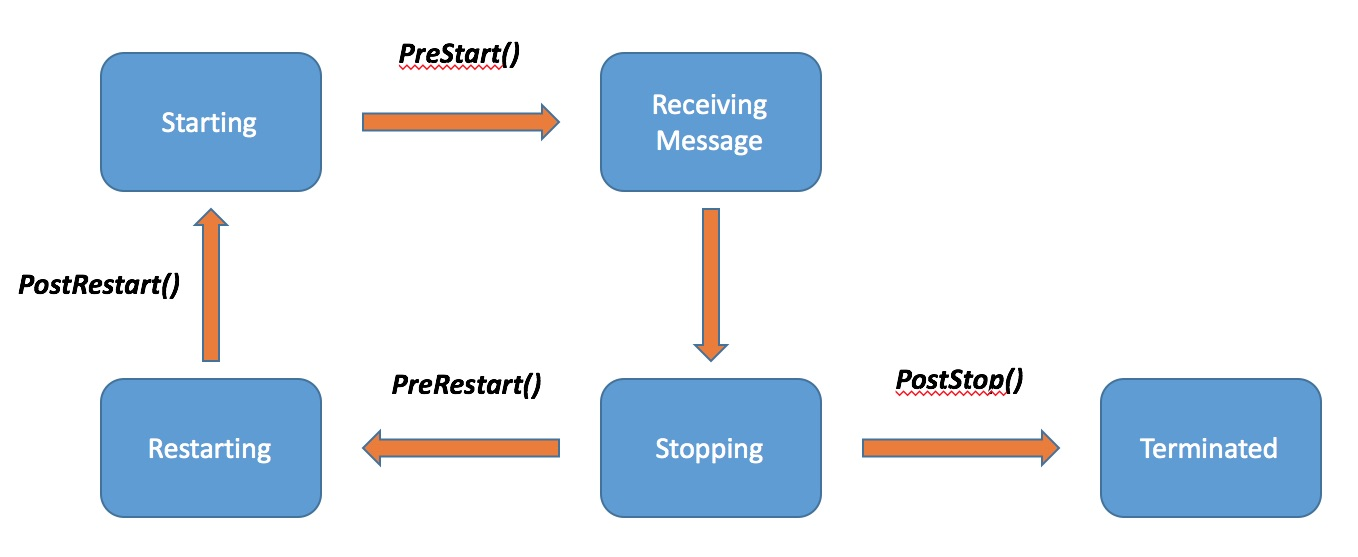
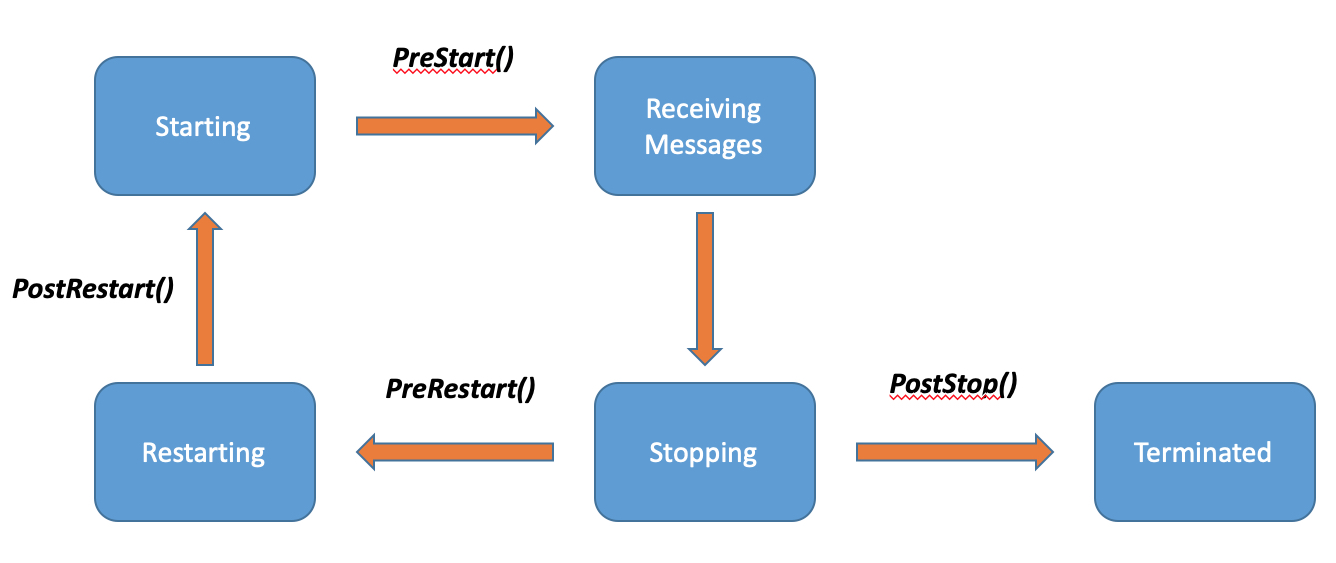
corrections de quelques petites erreurs

diff --git a/_posts/2017-12-04-article-akka.md b/_posts/2017-12-04-article-akka.md
@@ -14,20 +14,6 @@ author: Paul MONNIER
     Akka .Net est un ensemble de librairies initialement venues de l'univers <b>Java</b>, adaptées en .Net par Petabridge. Ce Framework permet de créer facilement des systèmes <b>concurrents</b>, <b>distribués</b> et <b>scalables</b>, basé sur le pattern <b>"Actor Model"</b>.<br/><br/>
 </p>
 
-<p>
-    <span class="image left" style="max-width:45%;"><img src="/assets/images/articles/akka/proto-actor-benchmark.png" alt="" /></span>
-
-    <b>Proto.Actor</b> est le nouveau Framework visant à remplacer ce dernier.<br/>
-    Développé par le papa de Akka, il serait plus performant avec de nouvelles fonctionnalités.
-
-    <b>Roger JOHANSSON</b> a voulu recommencer un Framework d' Actor Model sur une base saine, permettant ainsi de rajouter des fonctionnalités qui auraient été couteuses et compliquées à développer sur son ancien Framework.<br/>
-
-    Bien que cette technologie soit prometteuse et plus performante, le manque de documentation m'a pour le moment découragé à aller plus loin dans mon POC.<br/>
-
-    <p style="font-size:11pt;">Vous trouverez ci-contre un Benchmark comparatif pour votre curiosité.</p> 
-</p>
-
-
 
 <h1 style="text-decoration: underline dotted;">Le pattern Actor Model</h1>
 
@@ -63,7 +49,7 @@ Ce pattern créé pour simplifier la gestion des <b>traitements parallèles</b>,
     <b>Conseils :</b>
     <ul>
         <li>Il est fortement conseillé d'utiliser des <b>messages immutables</b> pour éviter tout anti-pattern</li>
-        <li>Vous pouvez <b><i>overrider</i></b> la mailbox de vos acteurs pour modifier leurs comportements. Par exemple vous pourriez faire une <b><i>'Priority Mailbox'</i></b>  chargée de dépiler vos messages en les priorisant grâce à un attribut placé dans le model de vos messages.</li>
+        <li>Vous pouvez <b><i>'override'</i></b> la mailbox de vos acteurs pour modifier leurs comportements. Par exemple vous pourriez faire une <b><i>'Priority Mailbox'</i></b>  chargée de dépiler vos messages en les priorisant grâce à un attribut placé dans le model de vos messages.</li>
     </ul>
 </div>
 
@@ -85,8 +71,8 @@ Ce pattern créé pour simplifier la gestion des <b>traitements parallèles</b>,
 <div>
 Il existe 3 moyens différents pour envoyer un message à un acteur :<br/><br/>
     <p>
-        <span class="image left" target="_blank" style="max-width:30%;"><img src="/assets/images/articles/akka/tell.png" alt="" /></span><br>
-        <b style="font-size:28pt;color:#ff4500;">Tell :</b> Permet simplement d'envoyer un message à un acteur sans bloquer l'acteur. C'est une sorte de <b>"Fire And Forget"</b>
+        <span class="image left" target="_blank" style="max-width:30%;"><img src="/assets/images/articles/akka/tell.jpg" alt="" /></span><br>
+        <b style="font-size:28pt;color:#ff4500;">Tell :</b> Permet simplement d'envoyer un message à un acteur sans le bloquer. C'est une sorte de <b>"Fire And Forget"</b>
     </p><br/>
     <p>
         <span class="image right" target="_blank" style="max-width:30%;"><img src="/assets/images/articles/akka/ask.jpg" alt="" /></span>
@@ -122,7 +108,7 @@ Comme vous pouvez le voir sur l'image ci dessous, il y a plusieurs étapes entre
 4. Si l'acteur rentre dans l'état <b><i>'Terminated'</i></b> alors cela veut dire que l'acteur est complètement mort, il ne recevra donc plus de messages et ne pourra plus être redémarré.<br>
 5. Si l'acteur parent à constaté une erreur il peut alors demander à son enfant de redémarrer et rentrera donc dans le dernier état qui est le <b><i>'Restarting'</i></b>, l'ultime état avant que l'acteur ne reprenne son état initial de 'Starting'<br>
 
-Entre tous ces états, quelques méthodes du cycle vie sont appelées, il est possible de les <i>'overrider'</i> pour leur donner un comportement spécifique.
+Entre tous ces états, quelques méthodes du cycle vie sont appelées, il est possible de les <i>'override'</i> pour leur donner un comportement spécifique.
 
 <table>
     <colgroup>
@@ -254,14 +240,14 @@ Si cette syntaxe ne vous plaît pas, depuis C# 7, vous pouvez utiliser le patter
 </a>
 
 Pourquoi déléguer toutes ces tâches à des acteurs enfants ? <br>
-Nous pourrions imaginer que l'acteur principal puisse s'occuper de faire tout le travail, cependant la lisibilité et la propreté du code seraient impactées. Il est donc plus judicieux de suivre le principe <b>SOLID</b> (Single Responsibility Principle) pour que chaque entité s'occupe d'un seul et même périmètre d'actions. <br>
+Nous pourrions imaginer que l'acteur principal puisse s'occuper de faire tout le travail, cependant la lisibilité et la propreté du code seraient impactées. Il est donc plus judicieux de suivre le principe de <b>Single Responsibility Principle</b> (un des principe SOLID) pour que chaque entité s’occupe d’un seul et même périmètre d’actions.<br>
 C'est pourquoi dans mon exemple, le ThermostatActor s'occupe uniquement des actions propres au thermostat, notamment avec la méthode "ConvertFahrenheitToCelcius" qui se charge de convertir la température reçue et qui sera ensuite envoyée à l'API du thermostat.<br>
 
 <a class="image left" target="_blank"  style="max-width:54%;" href="https://github.com/PaulMonnier75/AkkaPOC/blob/master/Core/Actors/HomeAutomationActor.cs">
     <img src="/assets/images/articles/akka/supervision-strategy.png" alt="" />
 </a><br>
 
-Ci-contre, un exemple montrant comment j'ai overridé la <i>'Supervision Stratégie'</i> de l'acteur HomeAutomationActor. Vous remarquerez que  j'ai décidé d'overrider la <i>OneForOneStrategy</i>, signifiant que si mon ThermostatActor lève une exception il sera le seul à recevoir une décision, le LightActor ne sera donc pas impacté.<br>
+Ci-contre, un exemple montrant comment j'ai overridé la <i>'Supervision Stratégie'</i> de l'acteur HomeAutomationActor. Vous remarquerez que  j'ai décidé d'<i>'override'</i> la <i>OneForOneStrategy</i>, signifiant que si mon ThermostatActor lève une exception il sera le seul à recevoir une décision, le LightActor ne sera donc pas impacté.<br>
 
 En exécutant la requête suivante le ThermostatActor lèvera une exception de type ElectricityOverConsommationException. Suite à la surcharge de la stratégie, l'acteur parent va ordonner à son enfant de redémarrer. J'ai pris le soin de placer des <i>'Console.WriteLine'</i> dans les méthodes du cycle de vie pour mieux comprendre le fonctionnement.<br><br><br><br>
 
@@ -272,10 +258,22 @@ En exécutant la requête suivante le ThermostatActor lèvera une exception de t
 <h2>Conclusion</h2>
 
 A travers cet article, nous avons vu les grandes lignes du pattern acteur model avec Akka. J'espère que cela vous aidera à démystifier ce concept qui n'est pas forcément évident à comprendre.<br>
-J'aime beaucoup ce Framework puisqu'il permet de créer facilement des applications distribuées, concurrentes et scalables à travers de très bonnes Apis.<br>
+J'aime beaucoup ce Framework puisqu'il permet de créer facilement des applications distribuées, concurrentes et scalables à travers de très bonnes APIs.<br>
 De plus la <i>'Supervision Strategy'</i>, permet à votre application d'être résiliente en lui permettant de continuer de fonctionner en cas d'erreurs. 
 Le framework est très vaste et nous avons vu qu'une infime partie de ce que Akka peut nous donner.
-J'ai la chance de travailler sur un projet sur lequel Akka est mis en place, nos acteurs traitent des millions de commandes asynchrones par jour. Nous avons overridé nos mailbox pour que nos commandes est une notion de priorité et que certains messages soient traités avant d'autres.<br>
+J'ai la chance de travailler sur un projet sur lequel Akka est mis en place, nos acteurs traitent des millions de commandes asynchrones par jour. Nous avons overridé nos mailbox pour que nos commandes aient une notion de priorité et que certains messages soient traités avant d'autres.<br><br>
 
+<p>
+    <span class="image left" style="max-width:45%;"><img src="/assets/images/articles/akka/proto-actor-benchmark.png" alt="" /></span>
+
+    Il semblerait que <b>Proto.Actor</b> soit le nouveau Framework visant à remplacer ce Akka.<br/>
+    Développé par le papa de Akka, il serait plus performant avec de nouvelles fonctionnalités.
+
+    <b>Roger JOHANSSON</b> a voulu recommencer un Framework d' Actor Model sur une base saine, permettant ainsi de rajouter des fonctionnalités qui auraient été couteuses et compliquées à développer sur son ancien Framework.<br/>
+
+    Bien que cette technologie soit prometteuse et plus performante, le manque de documentation m'a pour le moment découragé à aller plus loin dans mon POC.<br/>
+
+    <p style="font-size:11pt;">Vous trouverez ci-contre un Benchmark comparatif pour votre curiosité.</p> 
+</p>
 
  <a href="https://github.com/PaulMonnier75/AkkaPOC">Lien Github</a>
